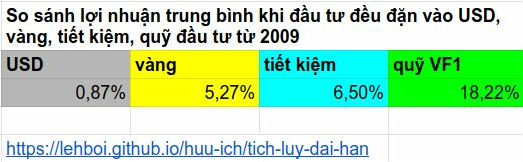
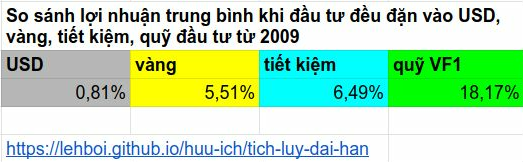
update data

diff --git a/huu-ich/dau-tu-co-phieu/so-tk-hay-dau-tu.html b/huu-ich/dau-tu-co-phieu/so-tk-hay-dau-tu.html
@@ -260,25 +260,25 @@ data-ad-slot="5275186684">
   <p>Các nhà kinh tế nói rằng đầu tư dài hạn vào quỹ đầu tư sẽ có lợi hơn gửi tiết kiệm ở ngân hàng. Lý thuyết đó có đúng trong thực tế không, và nhất là có đúng với thị trường Việt Nam không?</p>
   <h2>Kết quả thực tế</h2>
   <p>Trong bài này, tôi sẽ so sánh kết quả giữa hai phương tiện trên bằng những tính toán trên những số liệu thực tế trong một thời gian dài hơn 12 năm.
-  <br>Thời điểm bắt đầu tính là đầu năm 2009. Từ ngày đó đến ngày 07/10/2021
+  <br>Thời điểm bắt đầu tính là đầu năm 2009. Từ ngày đó đến ngày 04/11/2021 <!-- Chung!A3 -->
  là hơn 12 năm.</p>
-  <p>Giả sử anh A tích luỹ tiền bằng cách gửi tiết kiệm ở ngân hàng. Bắt đầu từ đầu năm 2009, mỗi 4 tuần (mỗi năm 13 lần ứng với 13 tháng lương) anh A gửi một triệu đồng vào một sổ tiết kiệm kỳ hạn 12 tháng ở Ngân hàng Ngoại thương Việt Nam, khi đáo hạn sổ đó thì nhập lãi vào gốc để gửi tiếp kỳ mới. Số tiền anh A đã gửi vào là 167
- triệu đồng. Vào ngày 07/10/2021
- tổng giá trị gốc và lãi là <b> 256,547
- triệu đồng</b>, tính ra lợi nhuận trung bình của việc tích luỹ này là <b> 6,50%/năm
+  <p>Giả sử anh A tích luỹ tiền bằng cách gửi tiết kiệm ở ngân hàng. Bắt đầu từ đầu năm 2009, mỗi 4 tuần (mỗi năm 13 lần ứng với 13 tháng lương) anh A gửi một triệu đồng vào một sổ tiết kiệm kỳ hạn 12 tháng ở Ngân hàng Ngoại thương Việt Nam, khi đáo hạn sổ đó thì nhập lãi vào gốc để gửi tiếp kỳ mới. Số tiền anh A đã gửi vào là 168 <!-- tiết!B2 -->
+ triệu đồng. Vào ngày 04/11/2021 <!-- tiết!A2 -->
+ tổng giá trị gốc và lãi là <b> 258,627 <!-- tiết!C2 -->
+ triệu đồng</b>, tính ra lợi nhuận trung bình của việc tích luỹ này là <b> 6,49%/năm <!-- tiết!C1 -->
 
 </b>. Mặc dù trong 12 năm qua có những lúc lãi suất tiết kiệm lên đến 14%/năm, nhưng do anh A gửi góp theo thời gian nên những khoản tiền gửi trễ sinh ra ít tiền lãi hơn những khoản tiền gửi sớm. Lợi nhuận trung bình đó đang giảm dần vì lãi suất tiết kiệm đã thấp hơn số trung bình đó từ 7 năm nay. Số liệu tính toán <a href="https://docs.google.com/spreadsheets/d/1br9PAhnFj5H2_XtqKL-8MjcCWTU3JP4WGf7guHMdcGo/edit#gid=1998350075" target='_blank'>trong bảng tính này</a>.</p>
 
-  <p>Giả sử anh B tích luỹ tiền bằng quĩ đầu tư VF1. Bắt đầu từ đầu năm 2009 mỗi 4 tuần anh B gửi một triệu đồng vào quỹ <b>VF1</b>. Số tiền anh B đã gửi vào cũng là 167
- triệu đồng như anh A. Vào ngày 07/10/2021
- giá trị tài khoản đầu tư của anh B là <b> 561,673
- triệu đồng</b>. Lợi nhuận trung bình của việc tích luỹ này là <span class="red"><b> 17,64%/năm
+  <p>Giả sử anh B tích luỹ tiền bằng quĩ đầu tư VF1. Bắt đầu từ đầu năm 2009 mỗi 4 tuần anh B gửi một triệu đồng vào quỹ <b>VF1</b>. Số tiền anh B đã gửi vào cũng là 168 <!-- tiết!B2 -->
+ triệu đồng như anh A. Vào ngày 04/11/2021 <!-- Chung!A3 -->
+ giá trị tài khoản đầu tư của anh B là <b> 591,921 <!-- DCDS!J4 -->
+ triệu đồng</b>. Lợi nhuận trung bình của việc tích luỹ này là <span class="red"><b> 18,17%/năm <!-- DCDS!J2 -->
  </b></span>.</p>
 
   <p>Bảng dưới đây cho biết lợi nhuận trung bình của mọi khoản đầu tư đều đặn vào những quỹ đầu tư trong 10/5/3/2/1 năm qua.</p>
   <div><amp-img alt="Kết quả đầu tư đều đặn" src="/data/VFM.png" height="281" width="565" layout="responsive"></amp-img></a></div>
 
-  <p>Trong thực tế thì số tiền anh A có chắc chắn phải thấp hơn 256,547
+  <p>Trong thực tế thì số tiền anh A có chắc chắn phải thấp hơn 258,627 <!-- tiết!C2 -->
  triệu đồng vì:</p>
   <ol>
     <li>Tiền lãi khi đáo hạn sẽ bị làm tròn xuống đến hàng ngàn, và những tiền lẻ dưới chục ngàn hoặc trăm ngàn sẽ không được nhập vào gốc để sinh lời tiếp vì anh A thấy nó lẻ.</li>
@@ -286,12 +286,12 @@ data-ad-slot="5275186684">
     <li>Không dễ để nhớ gửi tiền tiết kiệm đều đặn nhưng lại rất dễ để rút tiền ra dùng khi cần mua sắm iPhone, LED TV, scooter làm cho số tiền bị hao hụt nhiều.</li>
   </ol>
 
-  <p>Ngoài ra, khi gửi ngân hàng kiểu đó thì anh A phải giữ từ 14 đến 167
+  <p>Ngoài ra, khi gửi ngân hàng kiểu đó thì anh A phải giữ từ 14 đến 168 <!-- tiết!B2 -->
  sổ tiết kiệm. Có thời gian tôi cũng làm như vậy (online) và tôi cảm thấy vô cùng lúng túng với hàng loạt con số trên màn hình. Trong khi đó đầu tư vào quỹ đầu tư thì mỗi người chỉ cần biết 1 vài con số.
   <br>Ngân hàng cũng có một loại tiết kiệm mà không tạo ra nhiều sổ, đó là tiết kiệm gửi góp. Tôi khuyên các bạn đừng dùng các loại tiết kiệm gửi góp của các ngân hàng. Mặc dù nó có vẻ giống như các kế hoạch đầu tư ở chỗ góp tiền vào một tài khoản, nhưng các ngân hàng không chuyên quản lý sổ tiết kiệm dài hạn và họ cũng không thích việc đó nên lãi suất dạng đó thấp hơn lãi suất 12 tháng. Tôi đã có một kinh nghiệm không vui với loại tiết kiệm gửi góp đó, sẽ kể lại trong một trang khác.</p>
 
   <p>Một ưu điểm khác của quỹ đầu tư là nó không có kỳ hạn, nghĩa là anh B hoặc anh C muốn rút tiền ra lúc nào cũng được, không bị mất khoản lãi khi chưa đến hạn như gửi tiết kiệm.
-  <br>Tính chất có kỳ hạn của sổ tiết kiệm cũng ảnh hưởng đến lợi nhuận trung bình của cách tích luỹ tiền ở ngân hàng: mỗi khi lãi suất tiến kiệm ở ngân hàng tăng hay giảm thì một năm sau mới thể hiện trên lợi nhuận trung bình. Ở phía bên kia, giá đơn vị quỹ đầu tư thay đổi hàng tuần thể hiện ngay trên lợi nhuận trung bình.</p>
+  <br>Tính chất có kỳ hạn của sổ tiết kiệm cũng ảnh hưởng đến lợi nhuận trung bình của cách tích luỹ tiền ở ngân hàng: mỗi khi lãi suất tiết kiệm ở ngân hàng tăng hay giảm thì một năm sau mới thể hiện trên lợi nhuận trung bình. Ở phía bên kia, giá đơn vị quỹ đầu tư thay đổi hàng tuần thể hiện ngay trên lợi nhuận trung bình.</p>
 
 
 
@@ -299,10 +299,10 @@ data-ad-slot="5275186684">
   <p>Các con số lãi suất ở trên là lãi kép nên thời gian càng dài thì kết quả càng lớn. Ví dụ với lãi suất như trên, gửi mỗi 4 tuần 1 triệu đồng sau 30 năm sẽ từ 390 triệu đồng:</p>
   <span class="red">
   <ul>
-    <li>được khoảng 1,028
+    <li>được khoảng 1,009 <!-- So!A4 -->
  tỉ đồng nếu gửi ngân hàng</li>
-    <li>được khoảng 14,253
- tỉ đồng nếu gửi quỹ đầu tư, <b>bằng 13,85
+    <li>được khoảng 11,645 <!-- So!A7 -->
+ tỉ đồng nếu gửi quỹ đầu tư, <b>bằng 11,54 <!-- So!A8 -->
  lần gửi ngân hàng</b></li>
   </ul>
   </span>
@@ -325,15 +325,15 @@ data-ad-slot="5275186684">
 
 
   <h2 id="goldusd">Tiết kiệm bằng USD hoặc vàng có tốt hơn không?</h2>
-  <p>Tôi giả định rằng chị U mua 100USD mỗi bốn tuần từ đầu năm 2009 đến nay chị U có 16.700
- USD tương đương 378,422
- triệu đồng và chị U đã bỏ ra hết 358,634
- triệu đồng, tính ra lợi nhuận trung bình của việc tích luỹ này là 0,87%/năm
+  <p>Tôi giả định rằng chị U mua 100USD mỗi bốn tuần từ đầu năm 2009 đến nay chị U có 16.800 <!-- Gold!J3 -->
+ USD tương đương 379,344 <!-- Gold!L4 -->
+ triệu đồng và chị U đã bỏ ra hết 360,892 <!-- Gold!K3 -->
+ triệu đồng, tính ra lợi nhuận trung bình của việc tích luỹ này là 0,81%/năm <!-- Gold!L2 -->
 .
-  <br>Lại giả định tiếp, từ đầu năm 2009 đến nay mỗi bốn tuần chị G dùng 100USD mua một số gram vàng lẻ đến một phần triệu gram. Đến nay chị G có 389,489
- gram vàng, trị giá 22.064,53
- USD. Như vậy với cùng số tiền bỏ ra như chị U, nhưng chị G thu lại được nhiều hơn 32,12%
- và  lợi nhuận trung bình của việc tích luỹ này là 5,27%/năm
+  <br>Lại giả định tiếp, từ đầu năm 2009 đến nay mỗi bốn tuần chị G dùng 100USD mua một số gram vàng lẻ đến một phần triệu gram. Đến nay chị G có 391,220 <!-- Gold!I4 -->
+ gram vàng, trị giá 22.592,96 <!-- Gold!J4 -->
+ USD. Như vậy với cùng số tiền bỏ ra như chị U, nhưng chị G thu lại được nhiều hơn 34,48% <!-- Gold!L3 -->
+ và  lợi nhuận trung bình của việc tích luỹ này là 5,51%/năm <!-- Gold!K2 -->
 , thấp hơn gửi tiết kiệm VND và thấp hơn tích luỹ bằng quỹ đầu tư. Lợi nhuận trung bình này có lẽ cũng tương đương mức trượt giá trung bình trong cùng thời gian, điều đó cho thấy tích luỹ bằng vàng không có lời.
   <br>Các số liệu về tỷ giá USD-VND và giá vàng từ đầu năm 2009 đến nay được lấy từ website Vietcombank.com.vn và www.gold.org.</p>
   <p>Bảng dưới đây so sánh lợi nhuận trung bình của việc đầu tư đều đặn vào các kênh từ năm 2009.</p>
@@ -367,6 +367,7 @@ data-ad-slot="5275186684">
   Bạn được phép chép lại trang-web này, với điều-kiện không được thay-đổi nội-dung và không dùng cho mục-đích thu-lợi và ghi rõ nguồn-gốc <a href="https://lehboi.github.io">http://LeHBoi.github.io</a>. Điều kiện trên cũng áp dụng với domain name trước đây của website này là LHBOI.NAME.VN.
   </div>
 </div>
+
 <amp-analytics>
   <script type="application/json">
     {
@@ -395,6 +396,7 @@ data-ad-slot="5275186684">
   }
   </script>
 </amp-analytics>
+
 </main>
 </body>
 </html>

diff --git a/huu-ich/ke-hoach-tai-chinh/khtcp1.html b/huu-ich/ke-hoach-tai-chinh/khtcp1.html
@@ -537,8 +537,8 @@ Dòng nào để trống hoặc ghi 0₫ ở cột C (Số tiền cần có) ngh
   <p>Tổng tài sản đầu tư của bạn nên được chia vào những nơi khác nhau tuỳ theo thời điểm sắp chi tiền, đó là nguyên tắc ba cái xô:</p>
   <ol>
     <li>Xô tiền trong tài khoản thanh toán và tiền tiết kiệm ngắn hạn đựng số tiền bạn sắp chi trong 1-2 năm tới,</li>
-    <li>Xô tiền tiết kiệm dài hạn hoặc quỹ đầu tư trái phiếu đựng số tiền sắp chi trong 5 năm tới,</li>
-    <li>Xô quỹ đầu tư cổ phiếu hoặc bất động sản đựng số tiền cho thời gian xa hơn 5 năm, quỹ đầu tư cổ phiếu cần có thời gian đủ dài để sinh lời ổn định.</li>
+    <li>Xô tiền quỹ đầu tư trái phiếu đựng số tiền sắp chi trong 5 năm tới,</li>
+    <li>Xô tiền quỹ đầu tư cổ phiếu hoặc bất động sản đựng số tiền cho thời gian xa hơn 5 năm, quỹ đầu tư cổ phiếu cần có thời gian đủ dài để sinh lời ổn định.</li>
   </ol>
   <p>Các xô tiền đó sinh lời ở các mức khác nhau. Nếu bạn đang tích luỹ tiền cho mục tiêu gần hơn 5 năm thì bạn gửi tiền vào xô thứ hai và bạn không thể nhập mức sinh lời cao vào ô B7 trong trang <a href="#tt-chung">TT-chung</a>. Nếu bạn đã tích luỹ đủ cho những mục tiêu gần hơn 5 năm thì bạn hãy chuyển số tiền sắp dùng cho những mục tiêu đó vào xô thứ hai và tiếp tục gửi tiền vào xô thứ ba và bạn có thể nhập mức sinh lời cao vào ô B7 trong trang <a href="#tt-chung">TT-chung</a>.
 
@@ -553,14 +553,14 @@ Dòng nào để trống hoặc ghi 0₫ ở cột C (Số tiền cần có) ngh
   <p>Tiếp theo trang Lộ-trình là trang Biểu-đồ gồm hai đường: tổng tài sản đầu tư màu xanh và số tiền đầu tư thêm mỗi tháng màu đỏ.
   <br>Đường tổng tài sản sẽ tăng dần cho đến năm bắt đầu về hưu, sau đó tăng tiếp một thời gian rồi bắt đầu giảm. Trong giai đoạn trước năm về hưu, có những năm tổng tài sản đầu tư giảm, đó là những năm lấy tiền ra thực hiện các mục tiêu trong trang Mục-tiêu. Nếu tổng tài sản đầu tư giảm xuống dưới 0, kế hoạch này không khả thi. Lý do là tiền tổng tài sản đầu tư không đủ cho các mục tiêu dùng tiền quá gần nhau, bạn cần phải giãn các mục tiêu ra hoặc giảm các mục tiêu xuống thấp hơn.
   <br>Điểm cuối cùng bên phải của đường màu xanh là số tiền bạn dự định để lại lúc cuối đời (ô B15 của trang <a href="khtcp1#quy-huu">Quỹ-hưu</a>). Bạn có thể thử tăng/giảm số tiền đó, việc tăng/giảm đó ảnh hưởng rất ít đến kế hoạch tích luỹ vì thời gian để tích luỹ số tiền đó rất dài.
-  <br>Đường đầu tư thêm cũng tăng dần cho đến năm về hưu do thu nhập tăng theo thâm niên và theo lạm phát, và trở về 0 trong những năm về hưu. Đường đầu tư thêm cũng có những điểm gãy, đó là những năm bắt đầu một khoản trả góp. Có vài năm số tiền đầu tư thêm giảm xuống dưới 0 do khoản trả góp lớn. Số tiền đầu tư thêm âm có nghĩa là bạn lấy tiền từ tài sản đầu tư ra để trả góp, việc này là chấp nhận được nếu tổng tài sản đầu tư vẫn còn lớn hơn 0.</p>
+  <br>Đường đầu tư thêm cũng tăng dần cho đến năm về hưu do thu nhập tăng theo thâm niên và theo lạm phát, và trở về 0 trong những năm về hưu. Đường đầu tư thêm cũng có những điểm gãy, đó là những năm bắt đầu một khoản trả góp. Có vài năm số tiền đầu tư thêm giảm xuống dưới 0 do khoản trả góp lớn. Số tiền đầu tư thêm âm có nghĩa là bạn lấy tiền từ tài sản đầu tư ra để trả góp, việc này là chấp nhận được <span class="tmark">nếu tổng tài sản đầu tư vẫn còn lớn hơn 0</span>.</p>
   <div><amp-img alt="Lộ trình tài chính" src="/images/KHTCp1.png" width="600" height="371" layout="responsive"></amp-img></a></div>
   <h4>Điều chỉnh lộ trình</h4>
   <p>Dòng số 3 trong trang Lộ-trình cho biết con số cụ thể thu nhập và chi tiêu trong năm đầu tiên của lộ trình. Số chi tiêu chính là con số bạn đã nhập vào trong trang TT-chung.
   <br>Nếu thu nhập trung bình hàng tháng trong năm đầu tiên của bạn thấp hơn con số trong ô F3, bạn chưa thể thực hiện lộ trình này. Bạn cần phải: giảm chi tiêu, giảm hoặc dời các khoản <a href="khtcp1#tra-gop">trả góp</a> lại trễ hơn, giảm các mục tiêu để con số hợp với thực tế. Khi nào thu nhập tăng lên, bạn lại điều chỉnh các mục tiêu của mình cho phù hợp. Khi bạn giảm chi tiêu, số tiền tích luỹ trong hiện tại tăng lên, đồng thời quỹ hưu cần có trong tương lai giảm xuống, lộ trình của bạn được cải thiện từ hai phía nên sẽ tốt hơn.
-  <br>Khi bạn dời khoản trả góp lại trễ hơn, tiền đầu tư sẽ được sinh lợi nhiều hơn, và hy vọng rằng khoản trả góp có thể rẻ hơn. Nếu khoản trả góp là mua nhà thì việc dời lại trễ hơn có thể làm nó rẻ hơn hoặc đắt hơn tuỳ theo biến động của thị trường bất động sản.
-  <br>Nếu thu nhập trung bình hàng tháng trong năm đầu tiên của bạn cao hơn con số trong ô F3, chúc mừng bạn! Bạn có thể chọn trong ba hướng sau: chi tiêu nhiều hơn, tăng các mục tiêu lên cao hơn, <a href="khtcp2">về hưu sớm hơn</a>. Bạn hãy điều chỉnh các con số trong ba hướng đó và xem lại lộ trình mới.
-  <br>Trường hợp thu nhập trung bình hàng tháng trong năm đầu tiên của bạn cao hơn con số trong ô F3 nhưng biểu đồ tổng tài sản đầu tư có những lúc xuống dưới 0 và bạn không thể dời các khoản trả góp lại trễ hơn. Trong trường hợp này bạn sẽ không giữ được một tỷ lệ chi tiêu trên thu nhập ổn định suốt đời mà buộc phải giảm chi tiêu trong thời gian đầu (khi có những khoản trả góp không thể dời lại trễ hơn). Để thể hiện việc giảm chi tiêu trong thời gian đầu, bạn hãy giảm Mức tăng khoản đầu tư thêm hàng năm trong ô B8 của trang <a href="khtcp1#tt-chung">TT-chung</a>, giảm dần số đó xuống và tính lại lộ trình cho đến khi ô F3 trong trang Lộ-trình gần sát thu nhập thực tế.</p>
+  <br>Khi bạn dời khoản trả góp lại trễ hơn, tiền đầu tư sẽ được sinh lợi nhiều hơn, và hy vọng rằng khoản trả góp có thể rẻ hơn. Nếu khoản trả góp là mua nhà thì việc dời lại trễ hơn có thể làm nó rẻ hơn hoặc đắt hơn tuỳ theo biến động của thị trường bất động sản.</p>
+  <p>Nếu thu nhập trung bình hàng tháng trong năm đầu tiên của bạn cao hơn con số trong ô F3, chúc mừng bạn! Bạn có thể chọn trong ba hướng sau: chi tiêu nhiều hơn, tăng các mục tiêu lên cao hơn, <a href="khtcp2">về hưu sớm hơn</a>. Bạn hãy điều chỉnh các con số trong ba hướng đó và xem lại lộ trình mới.</p>
+  <p>Trường hợp thu nhập trung bình hàng tháng trong năm đầu tiên của bạn cao hơn con số trong ô F3 nhưng biểu đồ tổng tài sản đầu tư có những lúc xuống dưới 0 và bạn không thể dời các khoản trả góp lại trễ hơn. Trong trường hợp này bạn sẽ không giữ được một tỷ lệ chi tiêu trên thu nhập ổn định suốt đời mà buộc phải giảm chi tiêu trong thời gian đầu (khi có những khoản trả góp không thể dời lại trễ hơn). Để thể hiện việc giảm chi tiêu trong thời gian đầu, bạn hãy giảm Mức tăng khoản đầu tư thêm hàng năm trong ô B8 của trang <a href="khtcp1#tt-chung">TT-chung</a>, giảm dần số đó xuống và tính lại lộ trình cho đến khi ô F3 trong trang Lộ-trình gần sát thu nhập thực tế.</p>
   <p>Để giảm chi tiêu, bạn cần liệt kê các khoản chi của mình và chọn giảm khoản nào ít cần thiết nhất. Bạn có thể dùng mẫu trong trang Thu-chi để liệt kê chi tiêu.</p>
   <p>Sau khi điều chỉnh vào các trang, bạn làm lại bước <b>Tính lộ trình</b> ngay trên đây. Bạn lặp đi lặp lại việc này nhiều lần cho đến khi bạn có một lộ trình khả thi.</p>
 
@@ -673,6 +673,7 @@ Dòng nào để trống hoặc ghi 0₫ ở cột C (Số tiền cần có) ngh
   Bạn được phép chép lại trang-web này, với điều-kiện không được thay-đổi nội-dung và không dùng cho mục-đích thu-lợi và ghi rõ nguồn-gốc <a href="https://lehboi.github.io">http://LeHBoi.github.io</a>. Điều kiện trên cũng áp dụng với domain name trước đây của website này là LHBOI.NAME.VN.
   </div>
 </div>
+
 <amp-analytics>
   <script type="application/json">
     {
@@ -701,6 +702,7 @@ Dòng nào để trống hoặc ghi 0₫ ở cột C (Số tiền cần có) ngh
   }
   </script>
 </amp-analytics>
+
 </main>
 </body>
 </html>
